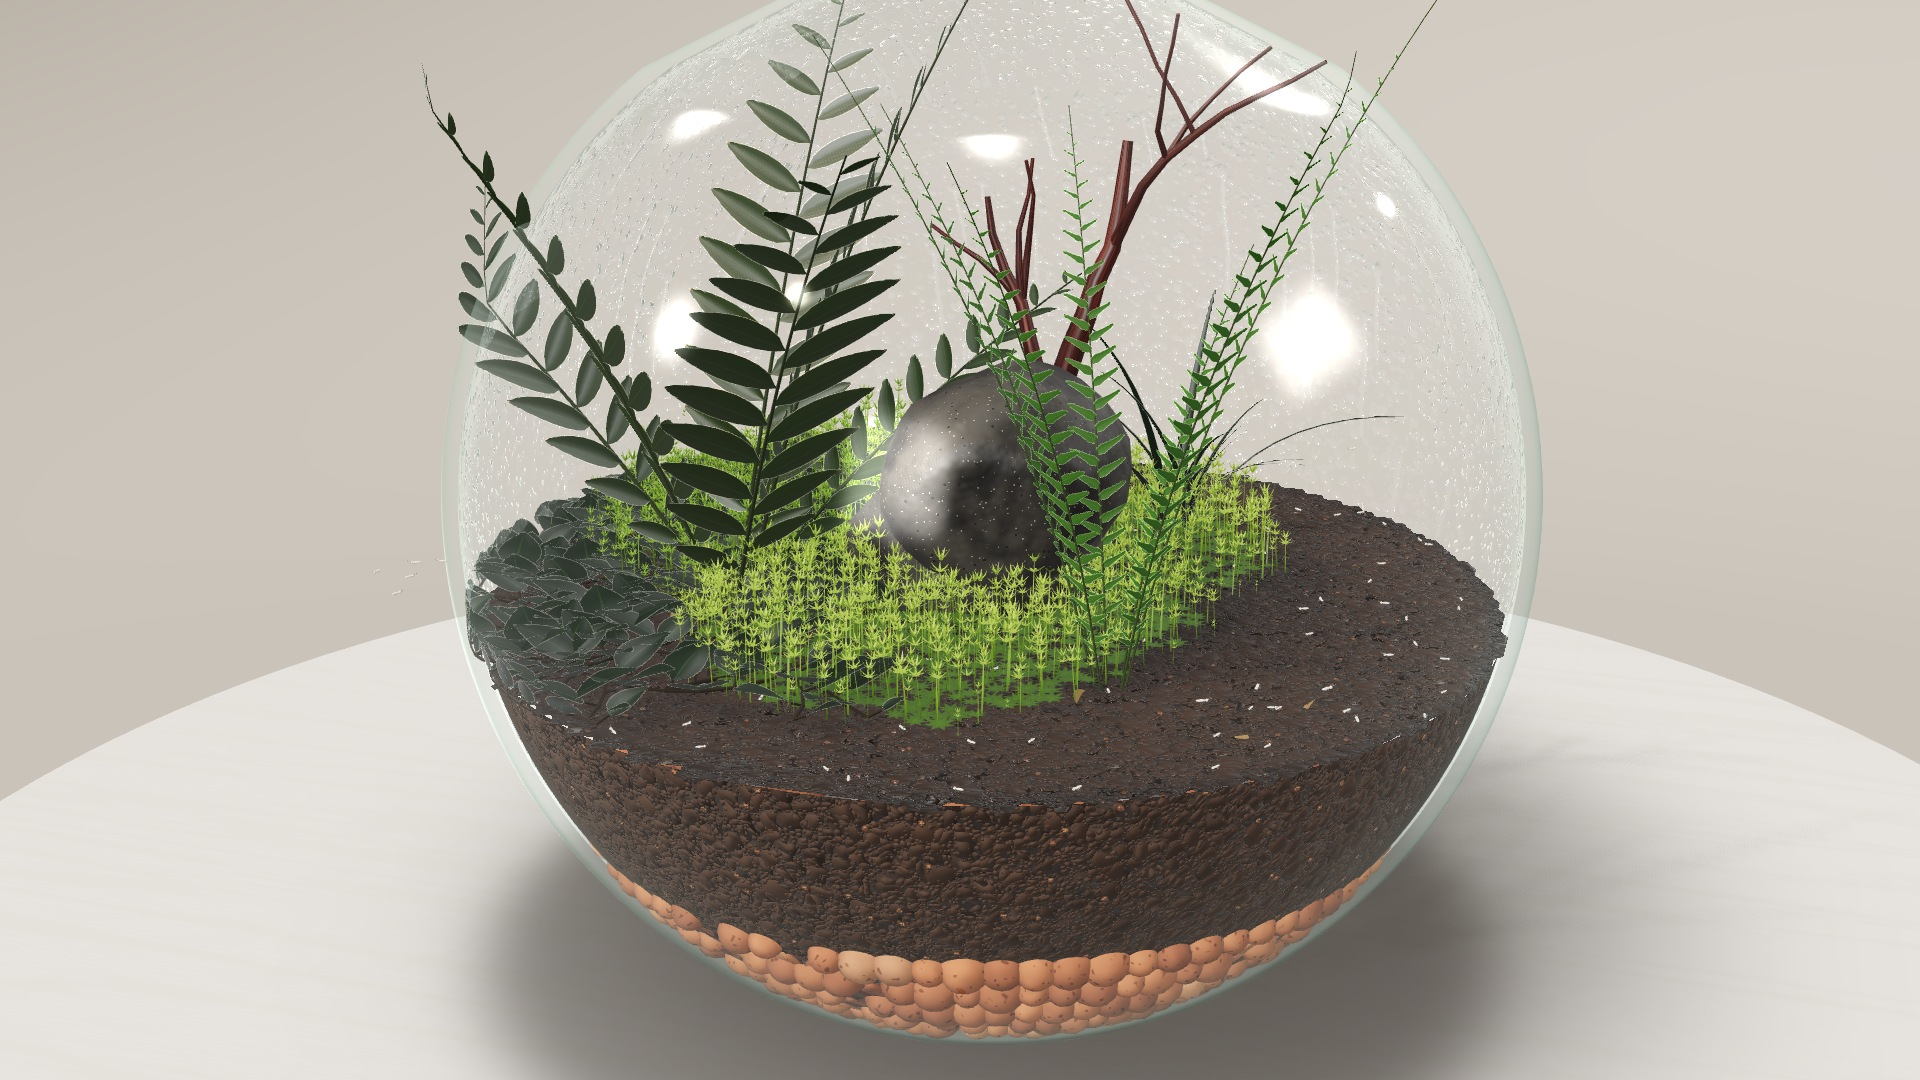
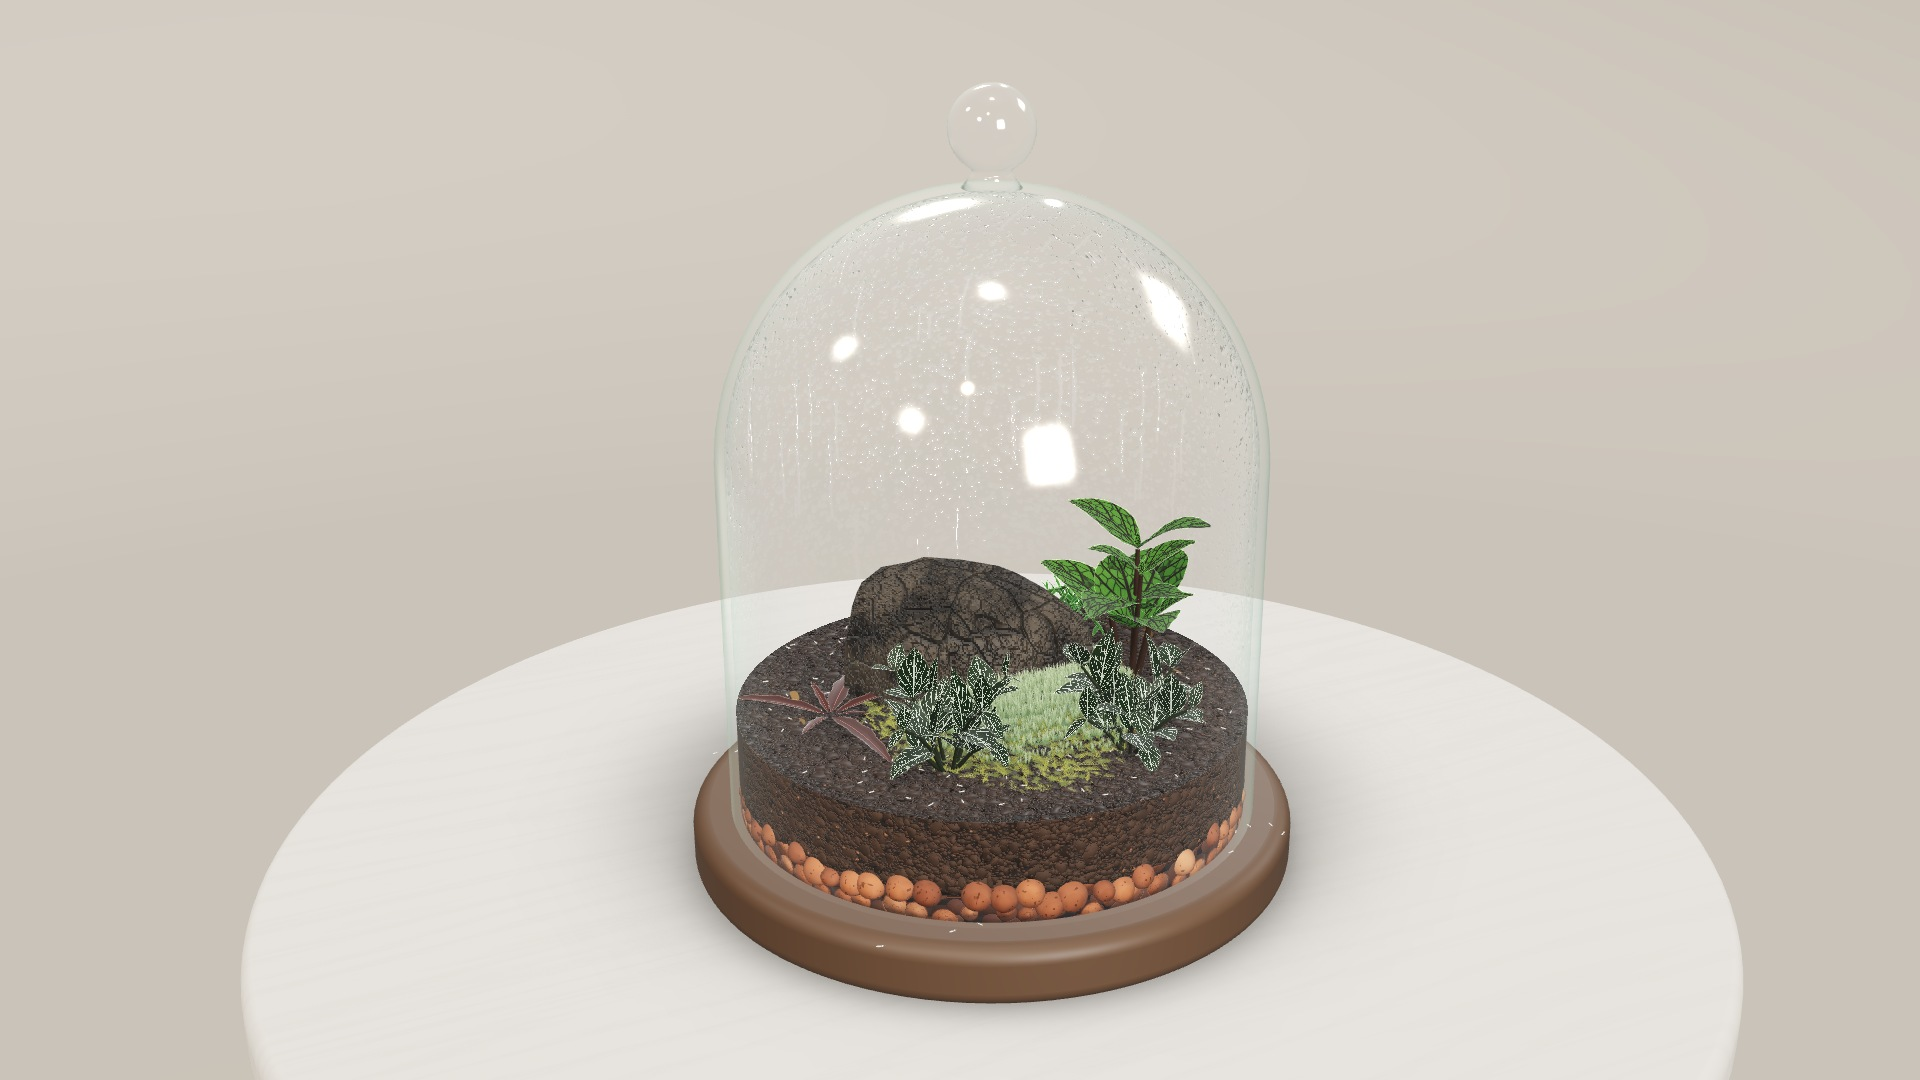
Glass Jar Garden: whole-cloche card, video plays after in-site navigation, no screenshot row or checked line

diff --git a/src/data/works.ts b/src/data/works.ts
@@ -49,7 +49,7 @@ export const WORKS = {
     sentence:
       'A terrarium simulator in the browser. Pour the layers, plant real species, add springtails and isopods, seal the jar and watch it live day by day: a water cycle, moss creeping, plants growing, mould when it goes wrong. Built on three.js with a simulation checked against real jars.',
     stat: '90 real species · 26 starter jars · free',
-    alt: 'A glass globe terrarium of ferns, moss and a stone, rendered in Glass Jar Garden',
+    alt: 'A glass cloche terrarium of nerve plants, moss and a stone, rendered in Glass Jar Garden',
     links: [
       { label: 'Open it', url: 'https://glassjar.garden/' },
       { label: 'Starter jars', url: 'https://glassjar.garden/starter-jars/' },
